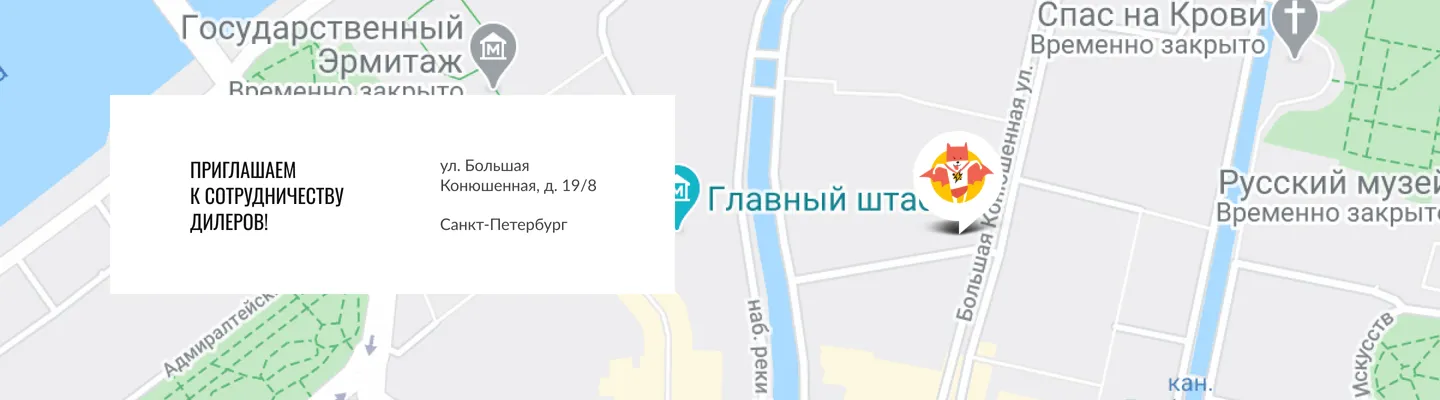
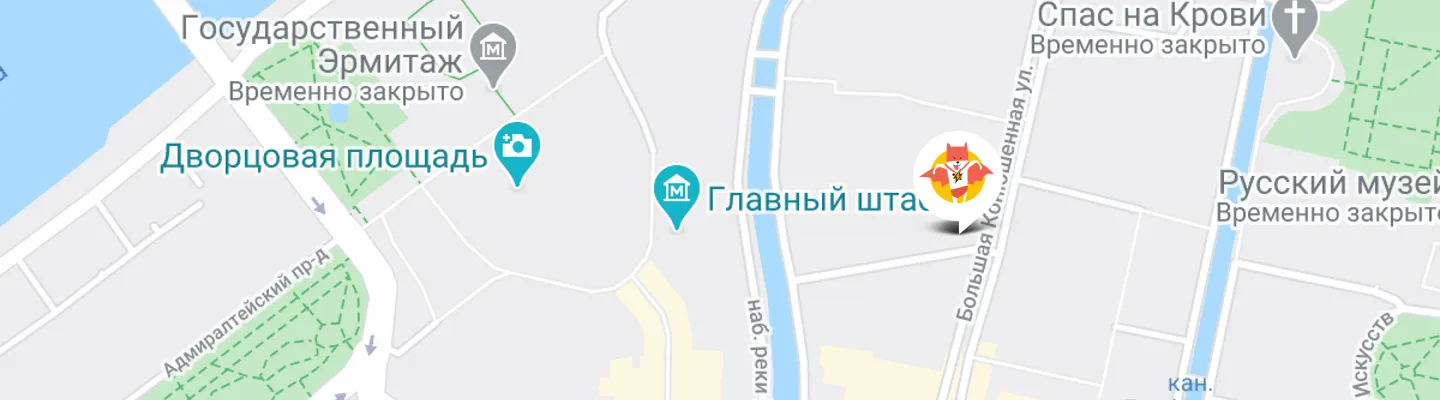
исправление ошибок на защиту

diff --git a/source/styles/blocks/main-nav.scss b/source/styles/blocks/main-nav.scss
@@ -1,87 +1,119 @@
-.main-nav__menu {
-  display: none;
-}
-
-.main-nav--opened {
-  .main-nav__list {
-    list-style: none;
-    padding: 0;
-    margin: 0;
-  }
-
+@media (max-width: $mobile-last) {
   .main-nav__menu {
-    width: 100%;
-    display: block;
+    display: none;
   }
 
-  .main-nav__item {
-    display: flex;
-    justify-content: center;
-    padding-top: 22px;
-    padding-bottom: 24px;
-    border-top: $border;
+  .main-nav--opened {
+    .main-nav__list {
+      list-style: none;
+      padding: 0;
+      margin: 0;
+    }
+
+    .main-nav__menu {
+      width: 100%;
+      display: block;
+    }
+
+    .main-nav__item {
+      display: flex;
+      justify-content: center;
+      padding-top: 22px;
+      padding-bottom: 24px;
+      border-top: $border;
+    }
+
+    .main-nav__item a {
+      @include oswald-black;
+      font-size: 20px;
+      text-decoration: none;
+    }
   }
 
-  .main-nav__item a {
-    @include oswald-black;
-    font-size: 20px;
-    text-decoration: none;
+  .main-nav__item:hover {
+    opacity: 60%;
   }
-}
 
-.main-nav__item:hover {
-  opacity: 60%;
-}
+  .main-nav__item:active {
+    opacity: 30%;
+  }
 
-.main-nav__item:active {
-  opacity: 30%;
-}
+  .main-nav__toggle {
+    position: absolute;
+    top: 24px;
+    right: 21;
+    z-index: 2;
+    width: 24px;
+    height: 24px;
+    background-color: #ffffff;
+    cursor: pointer;
+    border: none;
+  }
 
-.main-nav__toggle {
-  position: absolute;
-  top: 24px;
-  right: 21;
-  z-index: 2;
-  width: 24px;
-  height: 24px;
-  background-color: #ffffff;
-  cursor: pointer;
-  border: none;
-}
-
-.main-nav--closed .main-nav__toggle::before {
-  content: "";
-  position: absolute;
-  top: 0;
-  right: 0;
-  width: 24px;
-  height: 2px;
-  background-color: #000000;
-  box-shadow: 0 6px 0 0 #000000, 0 12px 0 0 #000000;
-}
-
-.main-nav--opened .main-nav__toggle {
-  &::before,
-  &::after {
+  .main-nav--closed .main-nav__toggle::before {
     content: "";
     position: absolute;
-    left: 3;
-    top: 10px;
-    width: 18px;
+    top: 0;
+    right: 0;
+    width: 24px;
     height: 2px;
     background-color: #000000;
+    box-shadow: 0 6px 0 0 #000000, 0 12px 0 0 #000000;
   }
 
-  &::before {
-    transform: rotate(45deg);
-    box-shadow: none;
+  .main-nav--opened .main-nav__toggle {
+    &::before,
+    &::after {
+      content: "";
+      position: absolute;
+      left: 3;
+      top: 10px;
+      width: 18px;
+      height: 2px;
+      background-color: #000000;
+    }
+
+    &::before {
+      transform: rotate(45deg);
+      box-shadow: none;
+    }
+
+    &::after {
+      transform: rotate(-45deg);
+    }
   }
 
-  &::after {
-    transform: rotate(-45deg);
+  .main-nav--nojs {
+    .main-nav__list {
+      list-style: none;
+      padding: 0;
+      margin: 0;
+    }
+
+    .main-nav__menu {
+      width: 100%;
+      display: block;
+    }
+
+    .main-nav__item {
+      display: flex;
+      justify-content: center;
+      padding-top: 22px;
+      padding-bottom: 24px;
+      border-top: $border;
+    }
+
+    .main-nav__item a {
+      @include oswald-black;
+      font-size: 20px;
+      text-decoration: none;
+    }
+
+    .main-nav__toggle {
+      display: none;
+    }
   }
 }
-
 
 @media (min-width: $tablet) {
   .main-nav__wrapper {
@@ -153,37 +185,5 @@
 
   .main-nav__item--active--desktop {
     border-bottom: 2px solid #ffffff;
-  }
-}
-
-
-.main-nav--nojs {
-  .main-nav__list {
-    list-style: none;
-    padding: 0;
-    margin: 0;
-  }
-
-  .main-nav__menu {
-    width: 100%;
-    display: block;
-  }
-
-  .main-nav__item {
-    display: flex;
-    justify-content: center;
-    padding-top: 22px;
-    padding-bottom: 24px;
-    border-top: $border;
-  }
-
-  .main-nav__item a {
-    @include oswald-black;
-    font-size: 20px;
-    text-decoration: none;
-  }
-
-  .main-nav__toggle {
-    display: none;
   }
 }

diff --git a/source/styles/blocks/gift.scss b/source/styles/blocks/gift.scss
@@ -18,10 +18,10 @@
 @media (min-width: $tablet) {
   .gift {
     background-image:
-      image-set("../../images/mobile/catalog-background-cat-tablet@1x.webp" 1x type("image/webp"),
-      "../../images/mobile/catalog-background-cat-tablet@2x.webp" 2x type("image/webp"),
-      "../../images/mobile/catalog-background-cat-tablet@1x.png" 1x type("image/png"),
-      "../../images/mobile/catalog-background-cat-tablet@2x.png" 2x type("image/png"));
+      image-set("../../images/tablet/catalog-background-cat-tablet@1x.webp" 1x type("image/webp"),
+      "../../images/tablet/catalog-background-cat-tablet@2x.webp" 2x type("image/webp"),
+      "../../images/tablet/catalog-background-cat-tablet@1x.png" 1x type("image/png"),
+      "../../images/tablet/catalog-background-cat-tablet@2x.png" 2x type("image/png"));
     background-size: cover;
     background-repeat: no-repeat;
     height: 200px;
@@ -32,7 +32,11 @@
 
 @media (min-width: $desktop) {
   .gift {
-    background-image: url("../../images/desktop/catalog-background-cat-desktop@2x.png");
+    background-image:
+      image-set("../../images/desktop/catalog-background-cat-desktop@1x.webp" 1x type("image/webp"),
+      "../../images/desktop/catalog-background-cat-desktop@2x.webp" 2x type("image/webp"),
+      "../../images/desktop/catalog-background-cat-desktop@1x.png" 1x type("image/png"),
+      "../../images/desktop/catalog-background-cat-desktop@2x.png" 2x type("image/png"));
     background-size: cover;
     background-repeat: no-repeat;
     height: 288px;

diff --git a/source/styles/blocks/cooperation.scss b/source/styles/blocks/cooperation.scss
@@ -110,7 +110,7 @@
   .cooperation__map--nojs {
     height: 400px;
     background-image:
-      image-set("../../images/tablet/map-mobile@1x.webp" 1x type("image/webp"),
+      image-set("../../images/tablet/map-tablet@1x.webp" 1x type("image/webp"),
       "../../images/tablet/map-tablet@2x.webp" 2x type("image/webp"),
       "../../images/tablet/map-tablet@1x.jpg" 1x type("image/jpg"),
       "../../images/tablet/map-tablet@2x.jpg" 2x type("image/jpg"));
@@ -120,7 +120,7 @@
 @media (min-width: $desktop) {
   .cooperation__map--nojs {
     background-image:
-      image-set("../../images/desktop/map-mdesktop@1x.webp" 1x type("image/webp"),
+      image-set("../../images/desktop/map-desktop@1x.webp" 1x type("image/webp"),
       "../../images/desktop/map-desktop@2x.webp" 2x type("image/webp"),
       "../../images/desktop/map-desktop@1x.jpg" 1x type("image/jpg"),
       "../../images/desktop/map-desktop@2x.jpg" 2x type("image/jpg"));

diff --git a/source/styles/common/mixins.scss b/source/styles/common/mixins.scss
@@ -9,7 +9,7 @@
 }
 
 @mixin oswald-black {
-  font-family: "Oswald", sans-serif;
+  font-family: "Oswald", "Arial", sans-serif;
   font-weight: 400;
   font-style: normal;
   color: #000000;
@@ -17,20 +17,20 @@
 
 @mixin oswald-white {
   color: #ffffff;
-  font-family: "Oswald", sans-serif;
+  font-family: "Oswald", "Arial", sans-serif;
   font-weight: 400;
   font-style: normal;
 }
 
 @mixin lato-black {
-  font-family: "Lato", sans-serif;
+  font-family: "Lato", "Arial", sans-serif;
   font-weight: 400;
   font-style: normal;
   color: #000000;
 }
 
 @mixin lato-dark-grey {
-  font-family: "Lato", sans-serif;
+  font-family: "Lato", "Arial", sans-serif;
   font-weight: 400;
   font-style: normal;
   color: $grey;

diff --git a/source/catalog.html b/source/catalog.html
@@ -6,6 +6,7 @@
   <title>Кэт Энерджи: Каталог продукции</title>
   <meta name="viewport" content="width=device-width,initial-scale=1">
   <link rel="preload" href="fonts/oswald/oswaldregular.woff2" as="font" type="font/woff2" crossorigin="anonymous">
+  <link rel="preload" href="fonts/lato/Lato-Regular.woff2" as="font" type="font/woff2" crossorigin="anonymous">
   <link rel="stylesheet" href="styles/styles.css">
   <link rel="icon" href="favicon.ico">
   <link rel="icon" href="favicons/32.svg" type="image/svg+xml">

diff --git a/source/index.html b/source/index.html
@@ -7,6 +7,7 @@
   <meta name="viewport" content="width=device-width,initial-scale=1">
   <link rel="stylesheet" href="styles/styles.css">
   <link rel="preload" href="fonts/oswald/oswaldregular.woff2" as="font" type="font/woff2" crossorigin="anonymous">
+  <link rel="preload" href="fonts/lato/Lato-Regular.woff2" as="font" type="font/woff2" crossorigin="anonymous">
   <link rel="icon" href="favicon.ico">
   <link rel="icon" href="favicons/32.svg" type="image/svg+xml">
   <link rel="apple-touch-icon" href="favicons/apple-icon.png">

diff --git a/source/styles/blocks/mechanism.scss b/source/styles/blocks/mechanism.scss
@@ -114,7 +114,7 @@
     line-height: 280px;
     counter-increment: ol 1;
     content: counter(ol);
-    font-family: "Oswald", sans-serif;
+    font-family: "Oswald", "Arial", sans-serif;
     position: absolute;
     top: -40;
     left: 50%;
